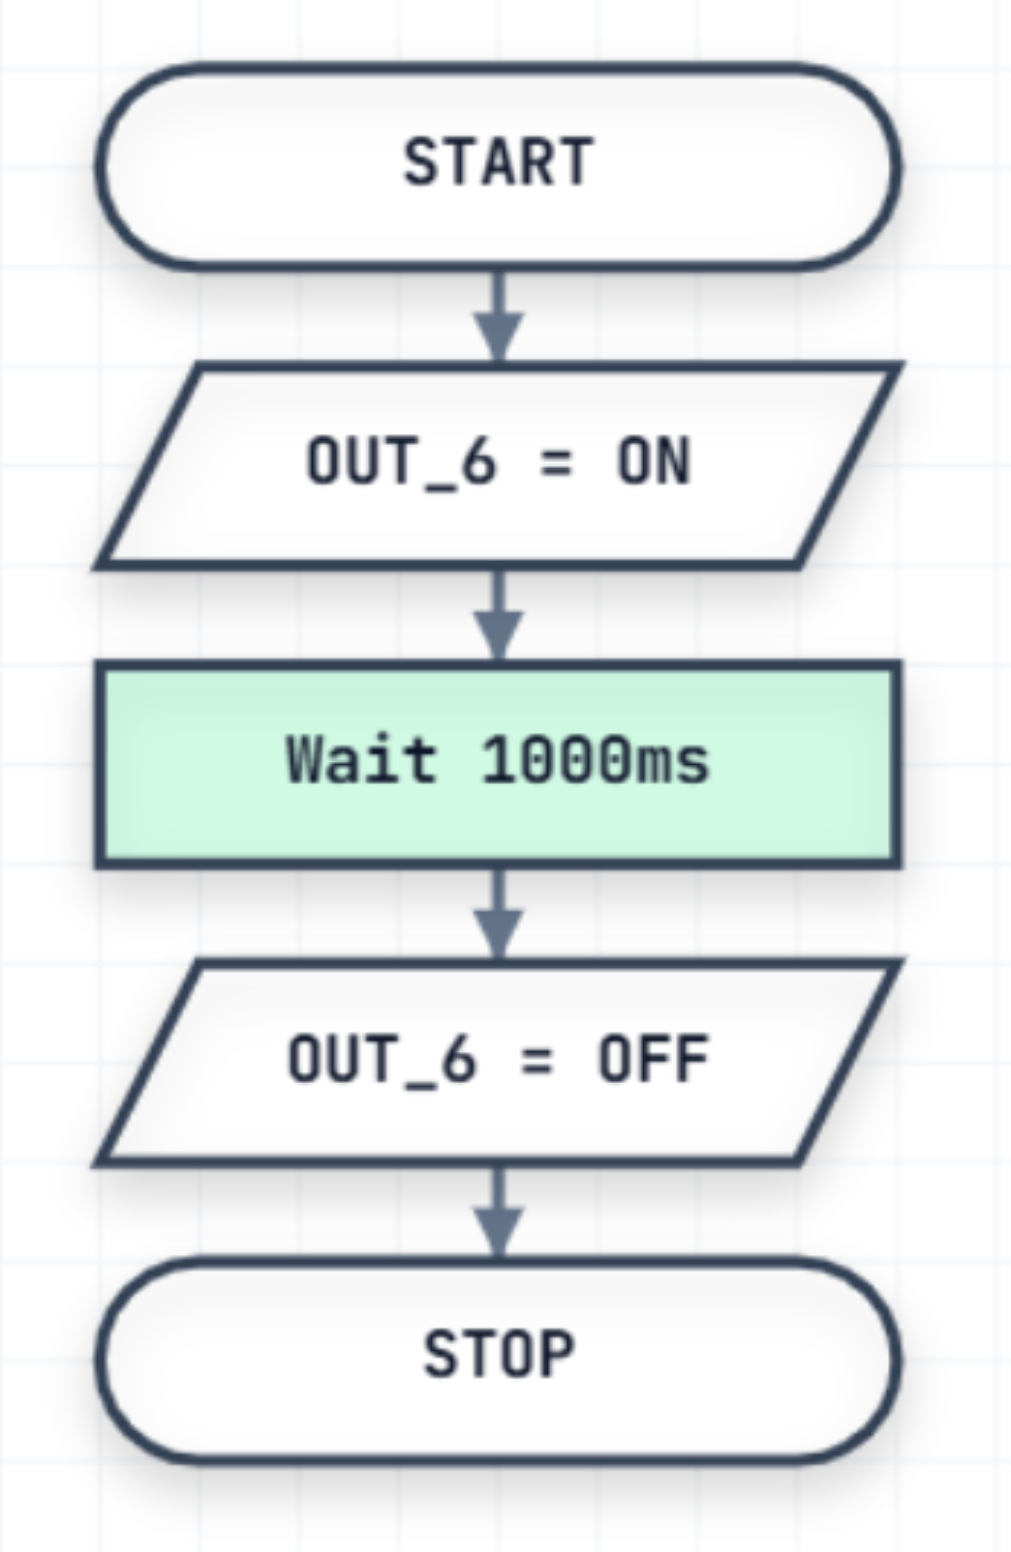
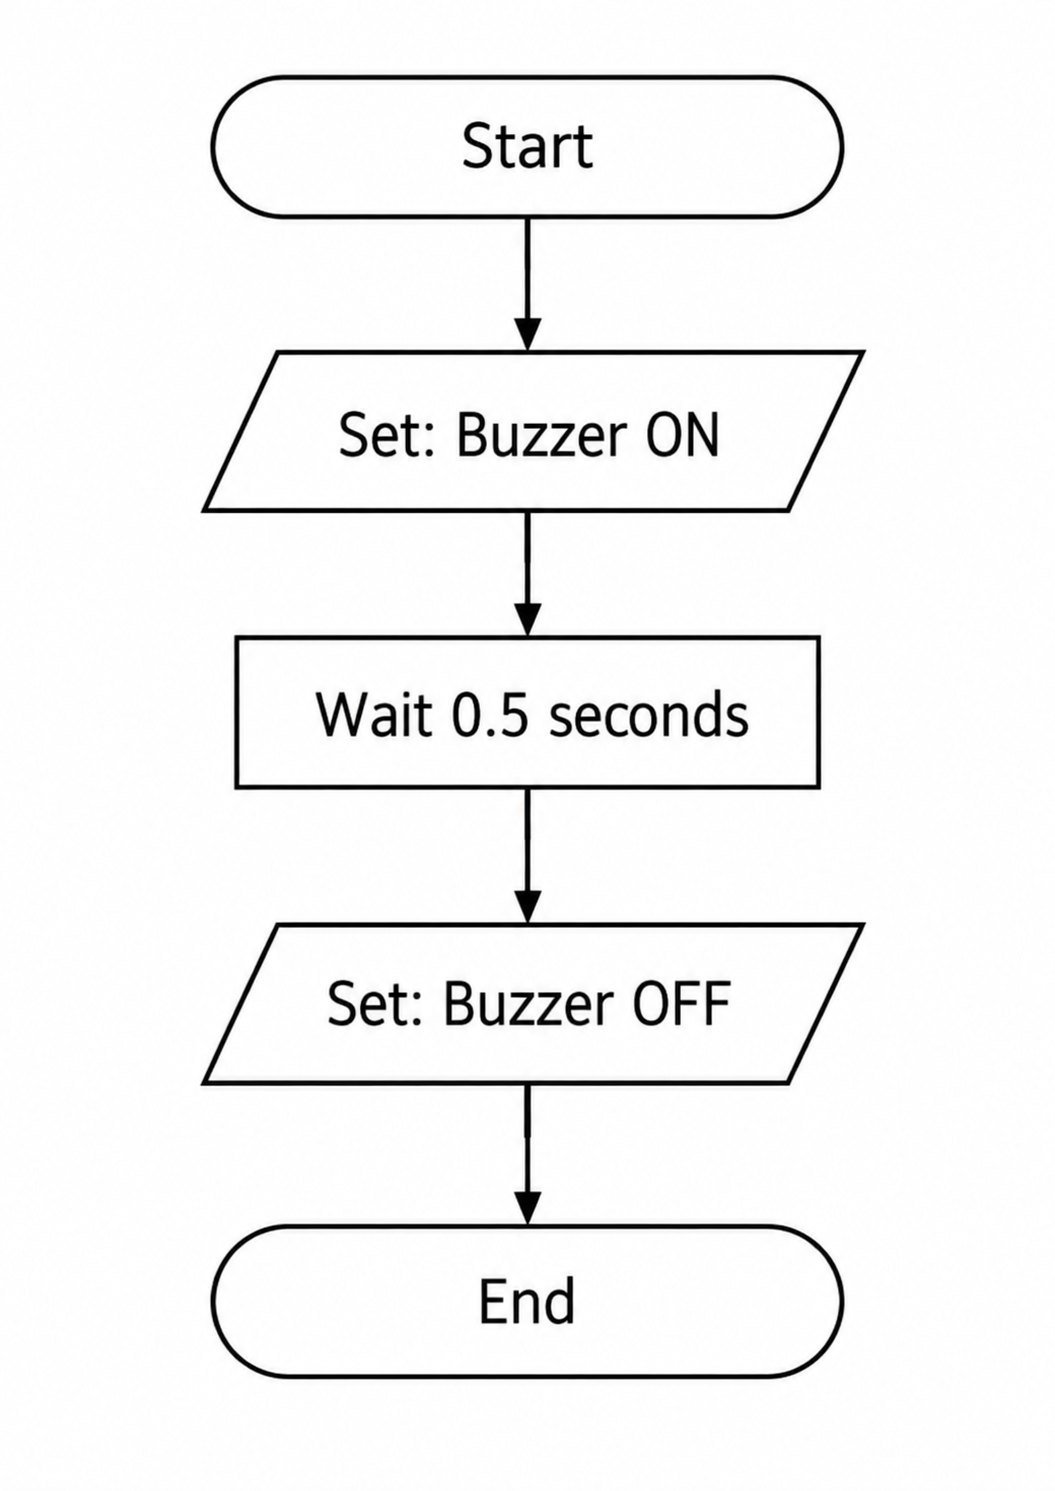
q

Changed region(s): [[0.0613, 0.0309, 0.9199, 0.9564], [0.7666, 0.2777, 0.7972, 0.3085]]

diff --git a/n5/electronics/control/course-notes.html b/n5/electronics/control/course-notes.html
@@ -258,12 +258,12 @@
       <img src="images/flowchart-symbols.png" alt="QS standard flowchart symbols: terminal, process, input/output parallelogram, decision diamond" style="width:100%;max-width:490px;display:block;margin:16px auto;border-radius:8px;">
       <p style="font-size:12px;color:var(--gray-500);text-align:center;margin:-8px 0 24px;">These symbols are taken from the QS data booklet.</p>
 
-      <p class="notes-p">A flowchart could simply be a single run of commands from start to finish, ending once the last instruction has been carried out. The example below starts the program, turns an output ON, waits for a set time, then turns the output OFF before stopping. Note that a delay like this must always include its unit — write <strong>Wait 1 s</strong> or <strong>Wait 500 ms</strong>; simply writing "500" is not acceptable.</p>
+      <p class="notes-p">A flowchart could simply be a single run of commands from start to finish, ending once the last instruction has been carried out. The example below starts the program, turns an output ON, waits for a set time, then turns the output OFF before stopping.</p>
 
       <!-- DIAGRAM PLACEHOLDER -->
       <img src="images/flowchart-single-run.png" alt="Simple single-run flowchart: START, turn an output ON, wait 1 second, turn the output OFF, STOP" style="width:100%;max-width:168px;display:block;margin:16px auto;border-radius:8px;">
 
-      <div class="key-point">Always include units on delays: ms (milliseconds) or s (seconds). 1 second = 1000 milliseconds.</div>
+      <div class="key-point">Note that a delay must always include its units. Wait 0.5 seconds, Wait 0.5s, Wait 500 milliseconds or Wait 500ms would be acceptable in the example above. Remember 1 second = 1000 milliseconds.</div>
 
       <p class="notes-p">However, a flowchart like this would only run through once before stopping. In practice, it is far more common for microcontroller programs to run continuously — repeating the same sequence over and over. This is called a <strong>fixed loop</strong>. The example below shows this using the flow line symbol, which loops back to an earlier point in the sequence instead of reaching STOP, so the sequence repeats indefinitely.</p>
 
